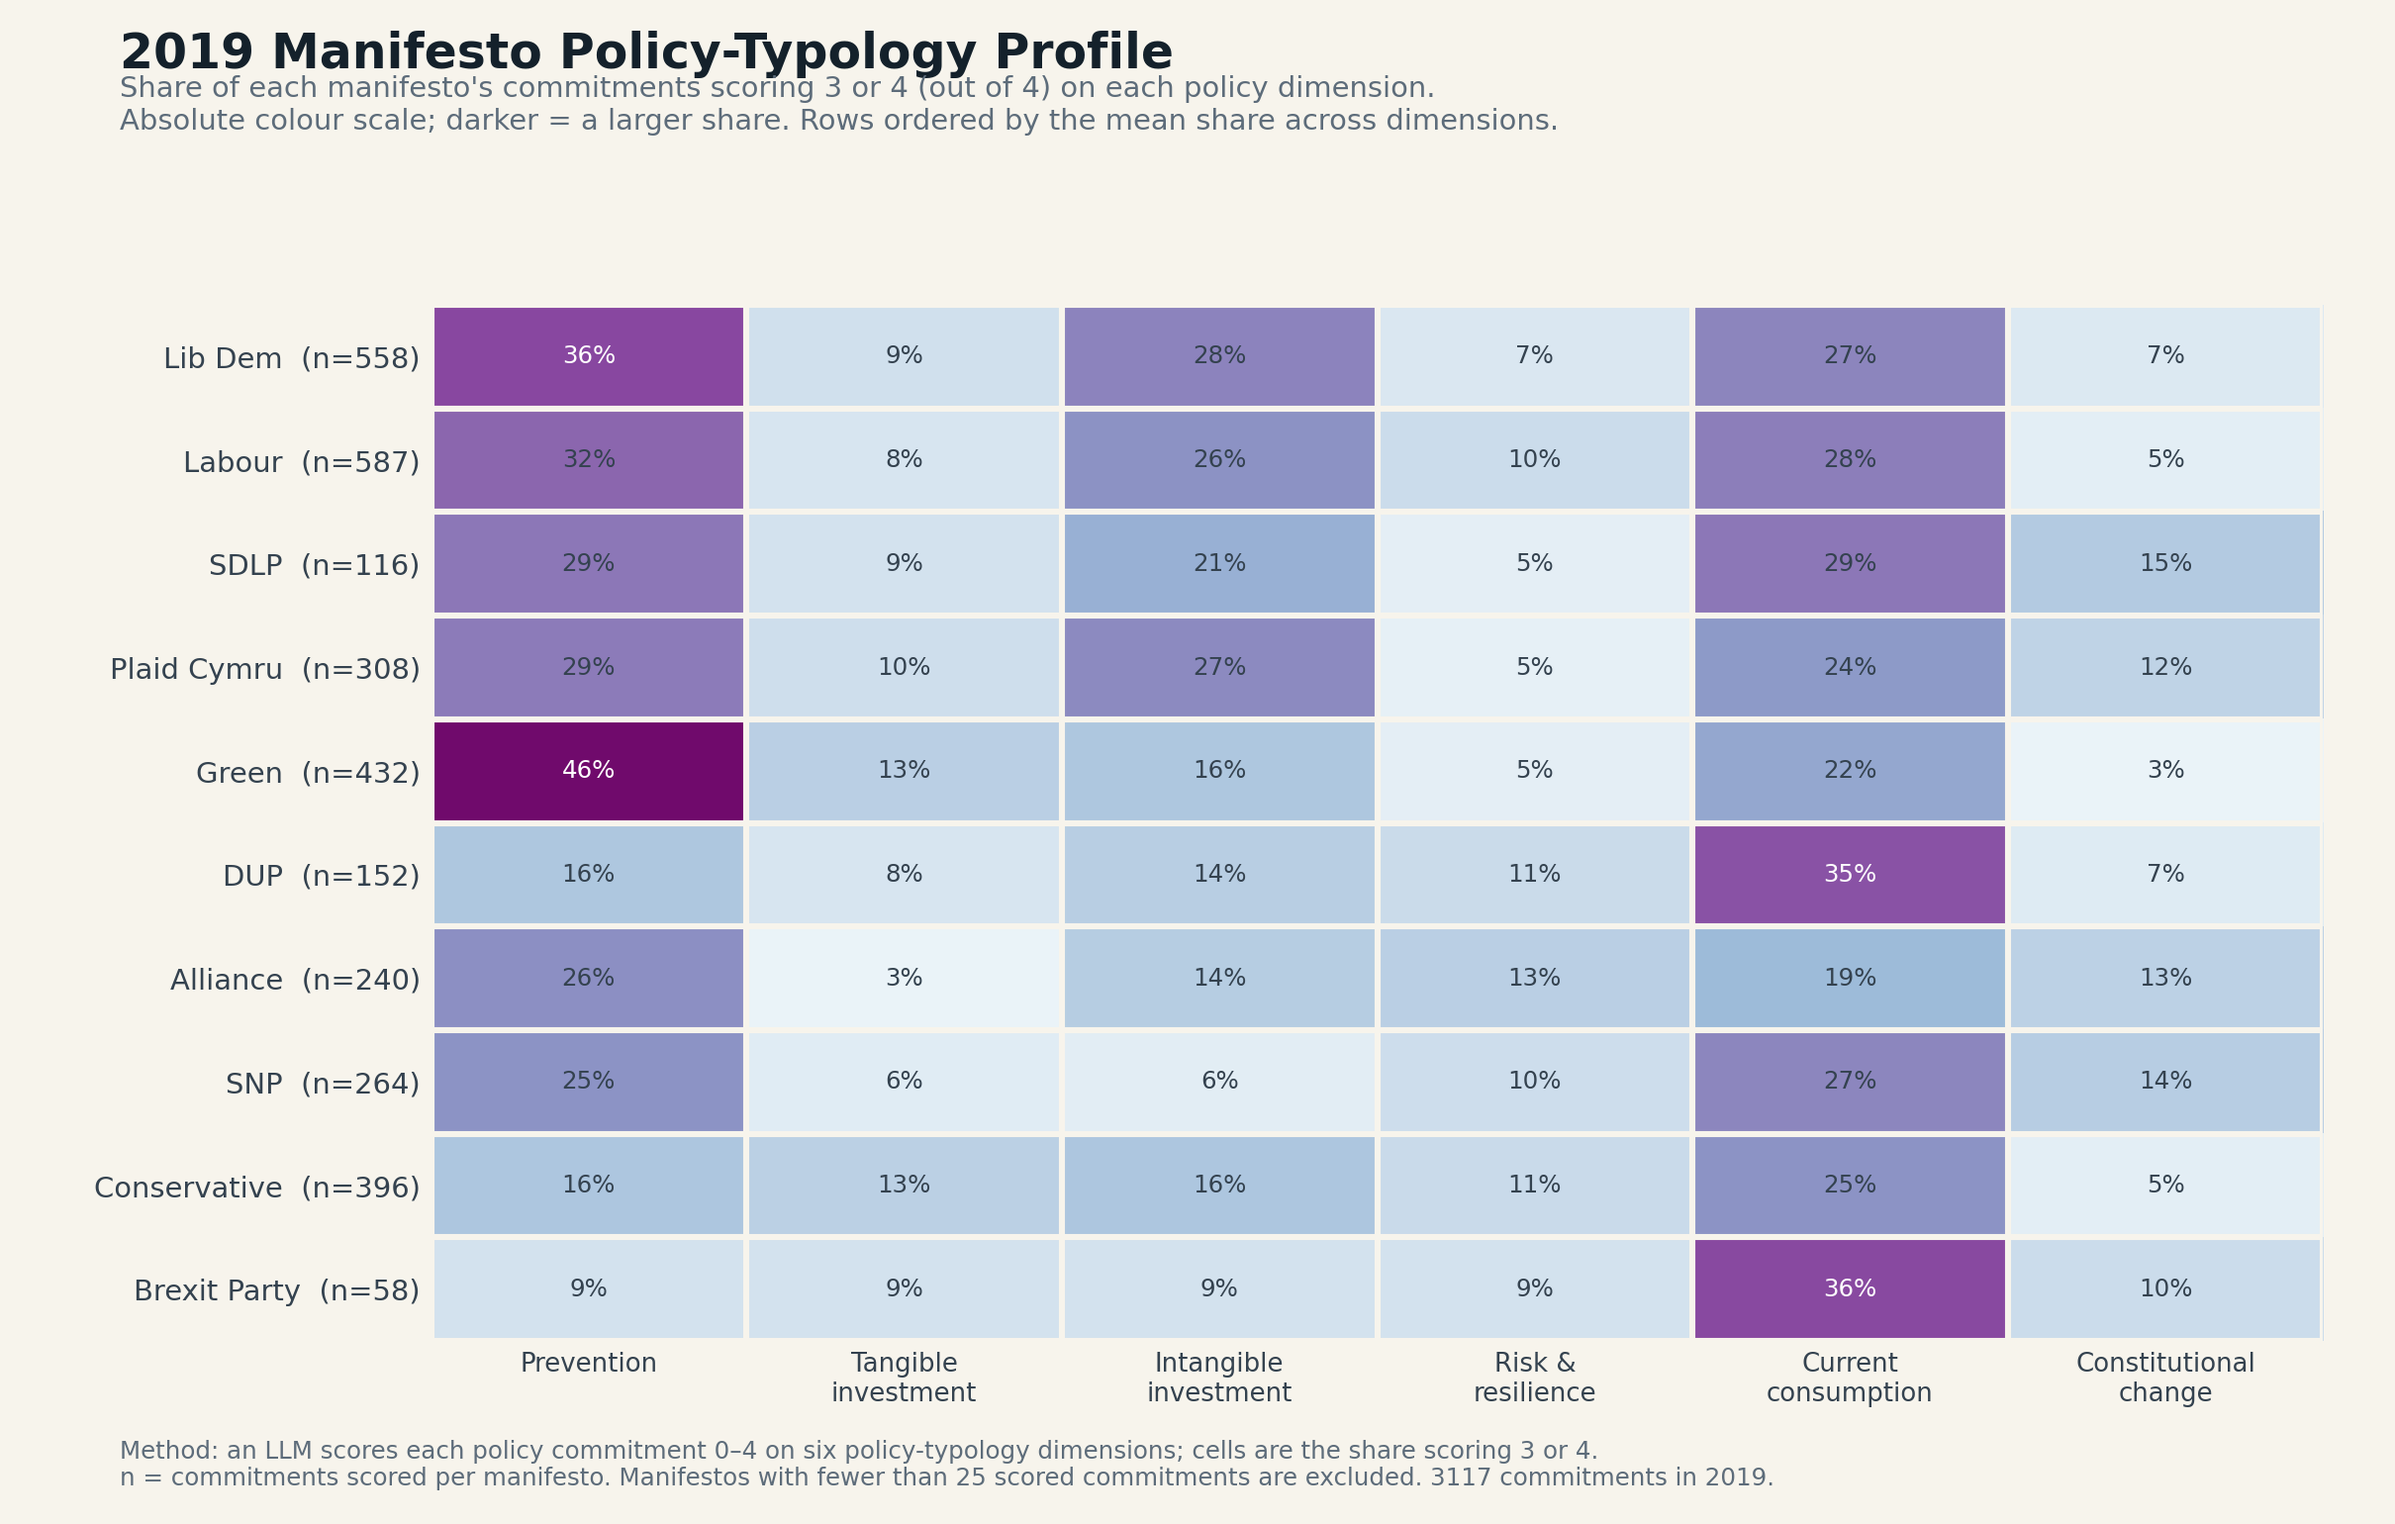
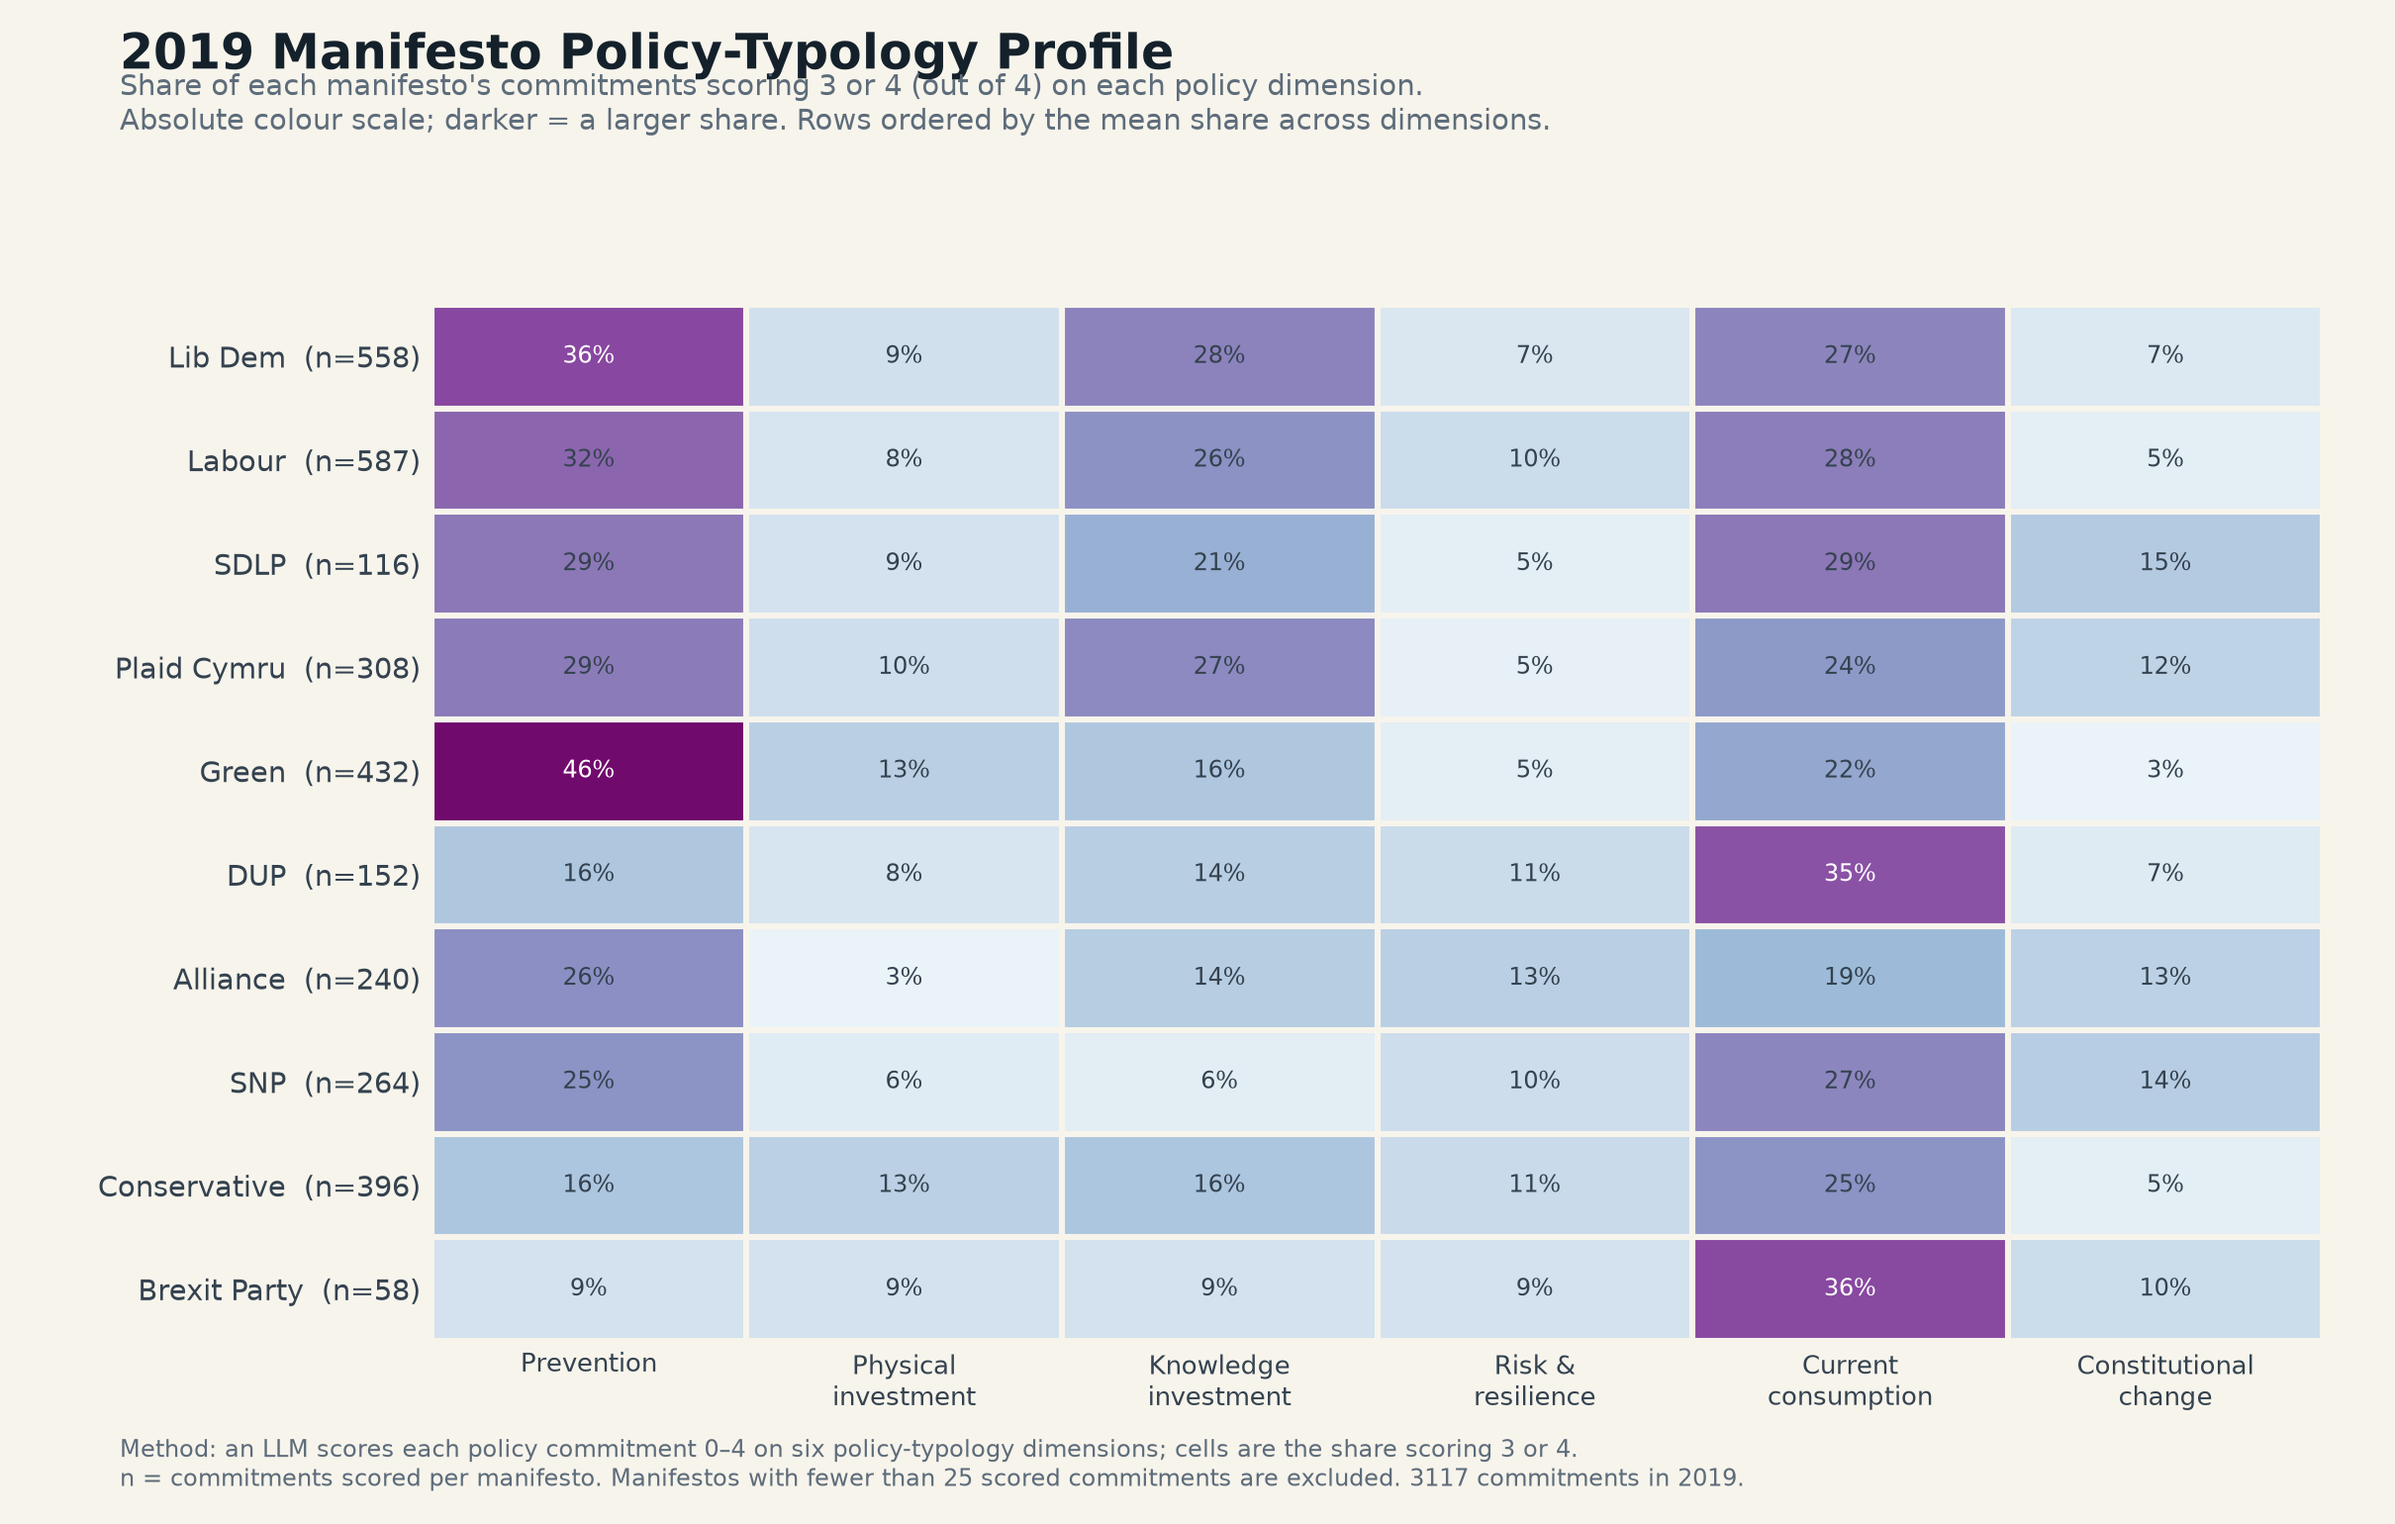
Relabel tangible/intangible investment as physical/knowledge investment in reader-facing text and charts (field names unchanged)

diff --git a/code/nlp/plot_manifestos_nlp.py b/code/nlp/plot_manifestos_nlp.py
@@ -384,8 +384,8 @@ def chart_year_scorecard(df: pd.DataFrame, year: int, output_dir: Path) -> None:
 
 RUBRIC_DIMENSIONS = [
     ("prevention", "Prevention"),
-    ("tangible_investment", "Tangible\ninvestment"),
-    ("intangible_investment", "Intangible\ninvestment"),
+    ("tangible_investment", "Physical\ninvestment"),
+    ("intangible_investment", "Knowledge\ninvestment"),
     ("risk_resilience", "Risk &\nresilience"),
     ("current_consumption", "Current\nconsumption"),
     ("constitutional_change", "Constitutional\nchange"),

diff --git a/README.md b/README.md
@@ -6,7 +6,7 @@ The project has two parts. First, we count words and phrases associated with lon
 
 ## Key outputs
 
-- **[`data/commitments.csv`](data/commitments.csv)** - 23,026 individual policy commitments extracted from the corpus, each scored across six policy dimensions (prevention, tangible investment, intangible investment, risk/resilience, current consumption, constitutional change) with supporting quotes and confidence signals.
+- **[`data/commitments.csv`](data/commitments.csv)** - 23,026 individual policy commitments extracted from the corpus, each scored across six policy dimensions (prevention, physical investment, knowledge investment, risk/resilience, current consumption, constitutional change) with supporting quotes and confidence signals.
 - **[`data/nlp_profiles.csv`](data/nlp_profiles.csv)** - word-count language profiles for each manifesto: hits and mentions per 1,000 words across ten curated word groups.
 - **[`figures/`](figures/)** - charts covering party rankings, historical trends, and a 2024 manifesto scorecard.
 - **[`manifestos/`](manifestos/)** - the source corpus: 108 party manifestos as PDFs, HTML, and plain text.
